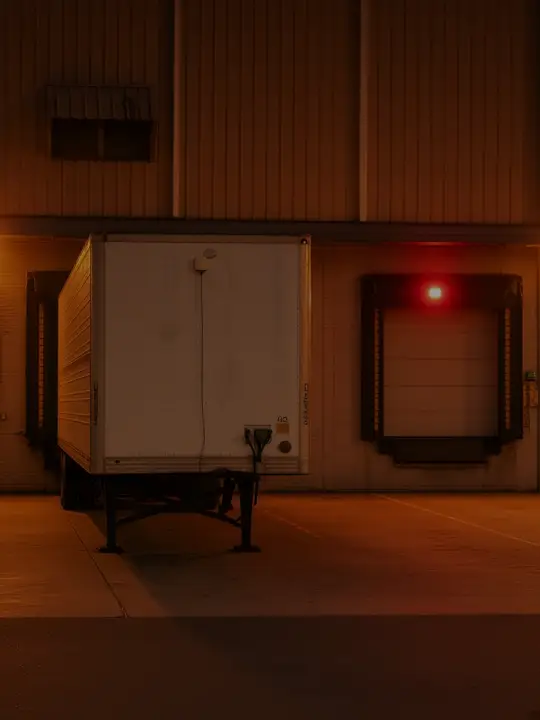
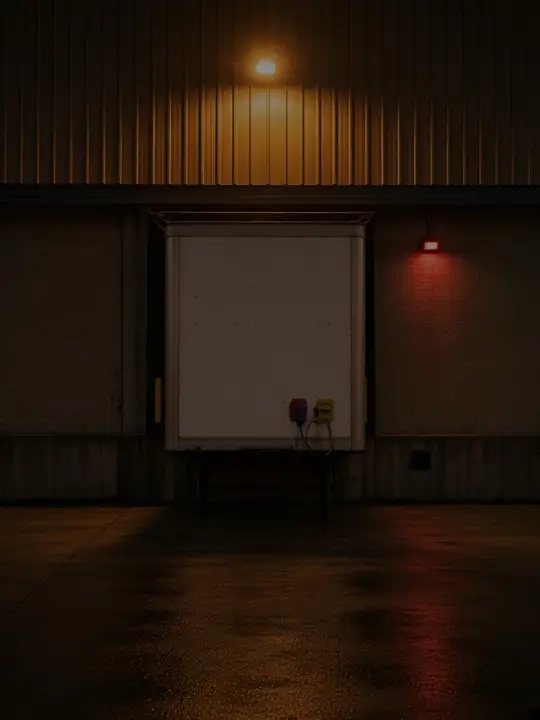
Mixed order, varied live doors, solid trailers

diff --git a/index.html b/index.html
@@ -63,10 +63,10 @@ background:linear-gradient(#050507 0 10px,#3a2a1a 10px 14px,transparent 14px),
  linear-gradient(transparent 0 205px,#2a2018 205px 212px,transparent 212px),
  repeating-linear-gradient(90deg,#6b5236 0 14px,#5a4430 14px 18px) 0 0/100% 205px no-repeat,
  linear-gradient(#4a3a2a 0 470px,#2b2118 470px 480px,#1c1610 480px);min-height:520px}
-#menu .bay{flex:0 0 270px;margin:0 -24px;width:auto;position:relative;scroll-snap-align:none}
+#menu .bay{flex:0 0 270px;margin:0 -14px;width:auto;position:relative;scroll-snap-align:none}
 #menu .bay:first-child{margin-left:0}#menu .bay:last-child{margin-right:0}
 #menu .ph{border-radius:0;box-shadow:none;height:480px;
--webkit-mask-image:linear-gradient(90deg,transparent,#000 18%,#000 82%,transparent);mask-image:linear-gradient(90deg,transparent,#000 18%,#000 82%,transparent)}
+-webkit-mask-image:linear-gradient(90deg,transparent,#000 9%,#000 91%,transparent);mask-image:linear-gradient(90deg,transparent,#000 9%,#000 91%,transparent)}
 #menu .ph .num{top:112px;background:none;color:#f5f5f0;font:900 34px/1 Impact,'Arial Black',sans-serif;text-shadow:0 0 2px #000,0 0 10px #000a;opacity:.92;padding:0}
 #menu .cap{position:absolute;bottom:-34px;left:0;right:0;z-index:2}
 #menu .plbl{bottom:24px;left:44px;right:44px}
@@ -81,18 +81,17 @@ background:linear-gradient(#050507 0 10px,#3a2a1a 10px 14px,transparent 14px),
 <section id="det" class="v"><video id="vid" controls playsinline preload="metadata"></video><button class="more" id="dlb" onclick="dl()">⬇ Download</button><h2 id="dt"></h2><p id="dm"></p><p id="dd"></p></section>
 <script>
 const FF='collection:feature_films AND ';
-const D=[["Live News","live"],["Music Videos","live"],["Faith","live"],["Outdoors & Motors","live"],["Local & Government","live"],["Shopping","live"],
-["Drama",FF+'subject:"Drama"'],["Comedy",FF+'subject:"Comedy"'],["Noir & Mystery",FF+'(subject:"Film Noir" OR subject:"Mystery")'],["Westerns",FF+'subject:"Western"'],["Horror & Sci-Fi",FF+'(subject:"Horror" OR subject:"Sci-Fi" OR subject:"Science Fiction")'],["Classic TV",'collection:classic_tv'],["End of row","end"]];
-let B=D[6][1],ti=null;
+const D=[["Live News","live"],["Music Videos","live"],["Drama",FF+'subject:"Drama"'],["Faith","live"],["Comedy",FF+'subject:"Comedy"'],["Noir & Mystery",FF+'(subject:"Film Noir" OR subject:"Mystery")'],["Outdoors & Motors","live"],["Westerns",FF+'subject:"Western"'],["Local & Government","live"],["Shopping","live"],["Horror & Sci-Fi",FF+'(subject:"Horror" OR subject:"Sci-Fi" OR subject:"Science Fiction")'],["Classic TV",'collection:classic_tv'],["End of row","end"]];
+let B=D[2][1],LI=0,ti=null;
 const IMG={walk:'img/walk.webp',live:'img/open.webp',tr:'img/trailer.webp',box:'img/container.webp',end:'img/end.webp'};
 D.splice(12,0,["Continue Watching","cw"],["My Loads","ml"]);
 function bay(img,n,lbl,cap,click,id){return `<div class="bay"><div class="ph" id="${id||''}" style="background-image:url(${img})" onclick="${click}">${n?`<div class="num">${n}</div>`:''}${lbl?`<div class="plbl">${lbl}</div>`:''}<div class="fade"></div></div><div class="cap">${cap}</div></div>`}
 menu.innerHTML=bay(IMG.walk,'','DRIVER CHECK','Search',"hd.textContent='DRIVER CHECK';go('srch')")+D.map((d,i)=>{const n=i+1,k=d[1];
- if(k=='live')return bay(IMG.live,n,d[0].toUpperCase(),d[0]+' · <span style="color:#4ade80">● live</span>',`lv(${i})`);
+ if(k=='live')return bay('img/live'+(LI++%6)+'.webp',n,d[0].toUpperCase(),d[0]+' · <span style="color:#4ade80">● live</span>',`lv(${i})`);
  if(k=='end')return bay(IMG.end,n,'','End of row · closed','');
  if(k=='cw'||k=='ml')return bay(IMG.box,n,d[0].toUpperCase(),d[0],`saved('${k}',${i})`);
  return bay(IMG.tr,n,d[0].toUpperCase(),d[0]+' · <span id="t'+i+'">…</span> titles',`openT(${i})`,'w'+i)}).join('');
-D.forEach((d,i)=>{if(i>5&&i<12)fetch("https://archive.org/advancedsearch.php?output=json&rows=0&q="+encodeURIComponent(d[1])).then(r=>r.json()).then(j=>document.getElementById('t'+i).textContent=j.response.numFound.toLocaleString())});
+D.forEach((d,i)=>{if(!['live','end','cw','ml'].includes(d[1]))fetch("https://archive.org/advancedsearch.php?output=json&rows=0&q="+encodeURIComponent(d[1])).then(r=>r.json()).then(j=>document.getElementById('t'+i).textContent=j.response.numFound.toLocaleString())});
 const LS=k=>JSON.parse(localStorage.getItem(k)||'{}'),SV=(k,o)=>localStorage.setItem(k,JSON.stringify(o));
 const fmt=t=>Math.floor(t/60)+':'+String(Math.floor(t%60)).padStart(2,'0');
 function saved(k,i){hd.textContent='DOOR '+(i+1)+' · '+D[i][0].toUpperCase();lt.textContent=D[i][0];more.style.display='none';
